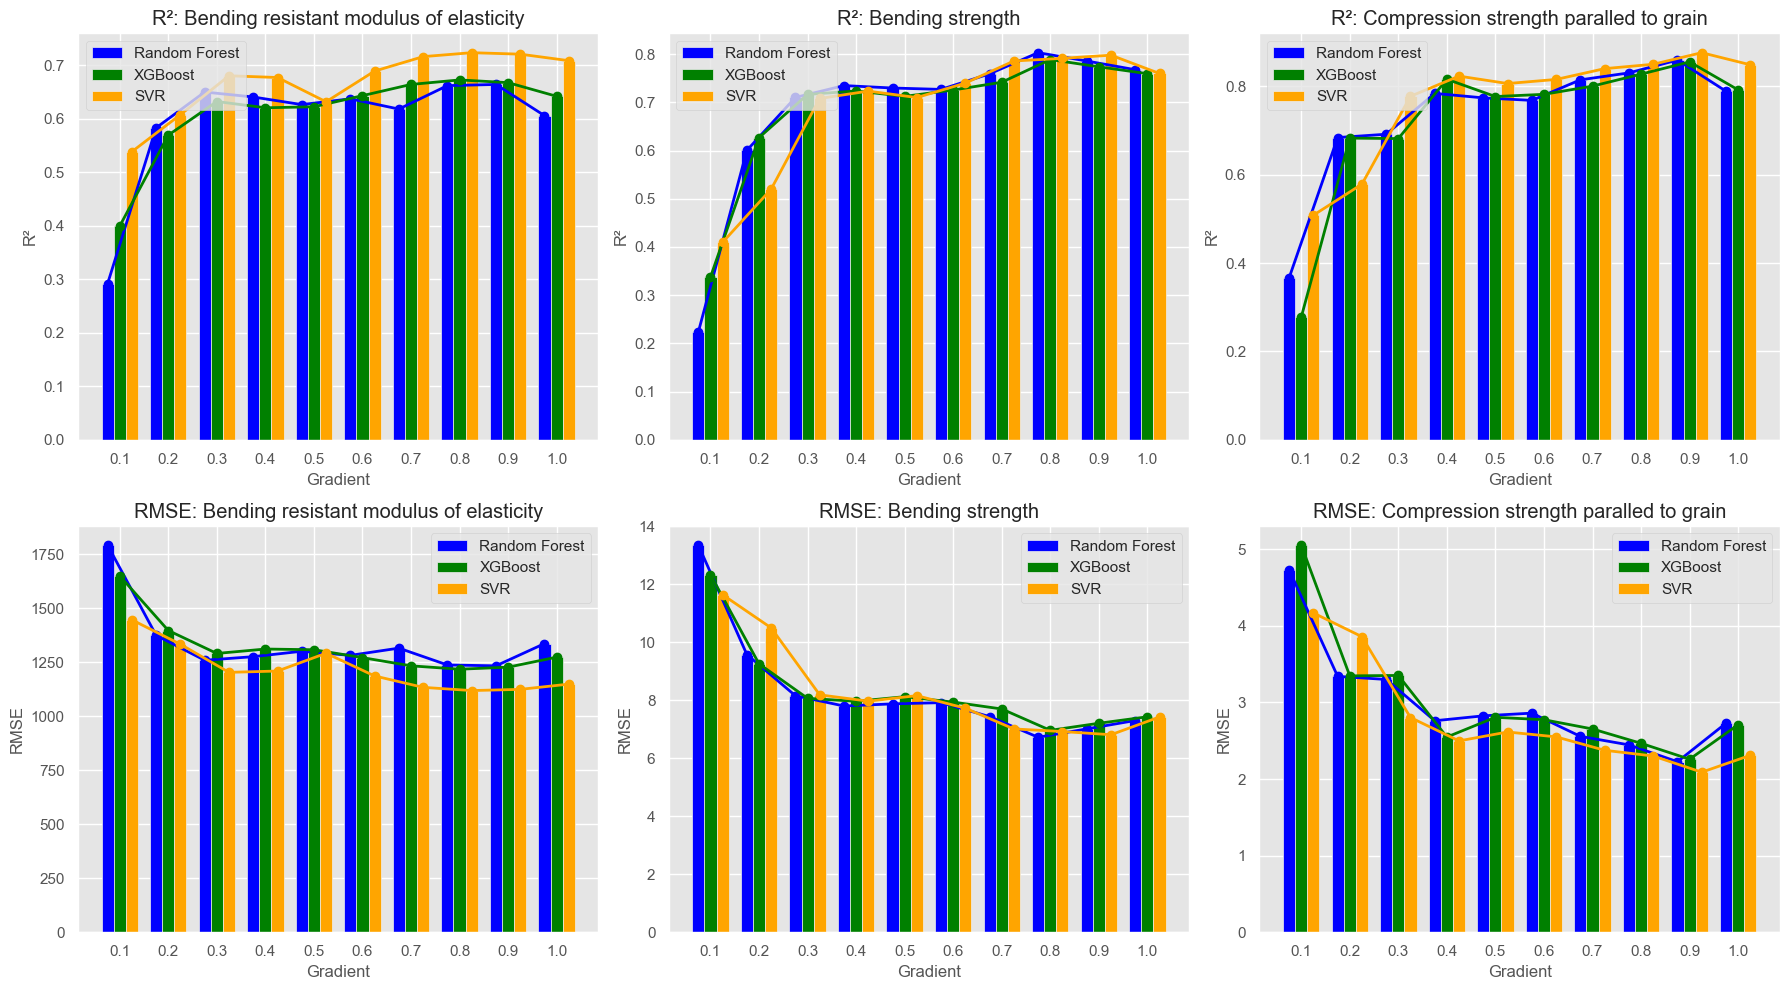
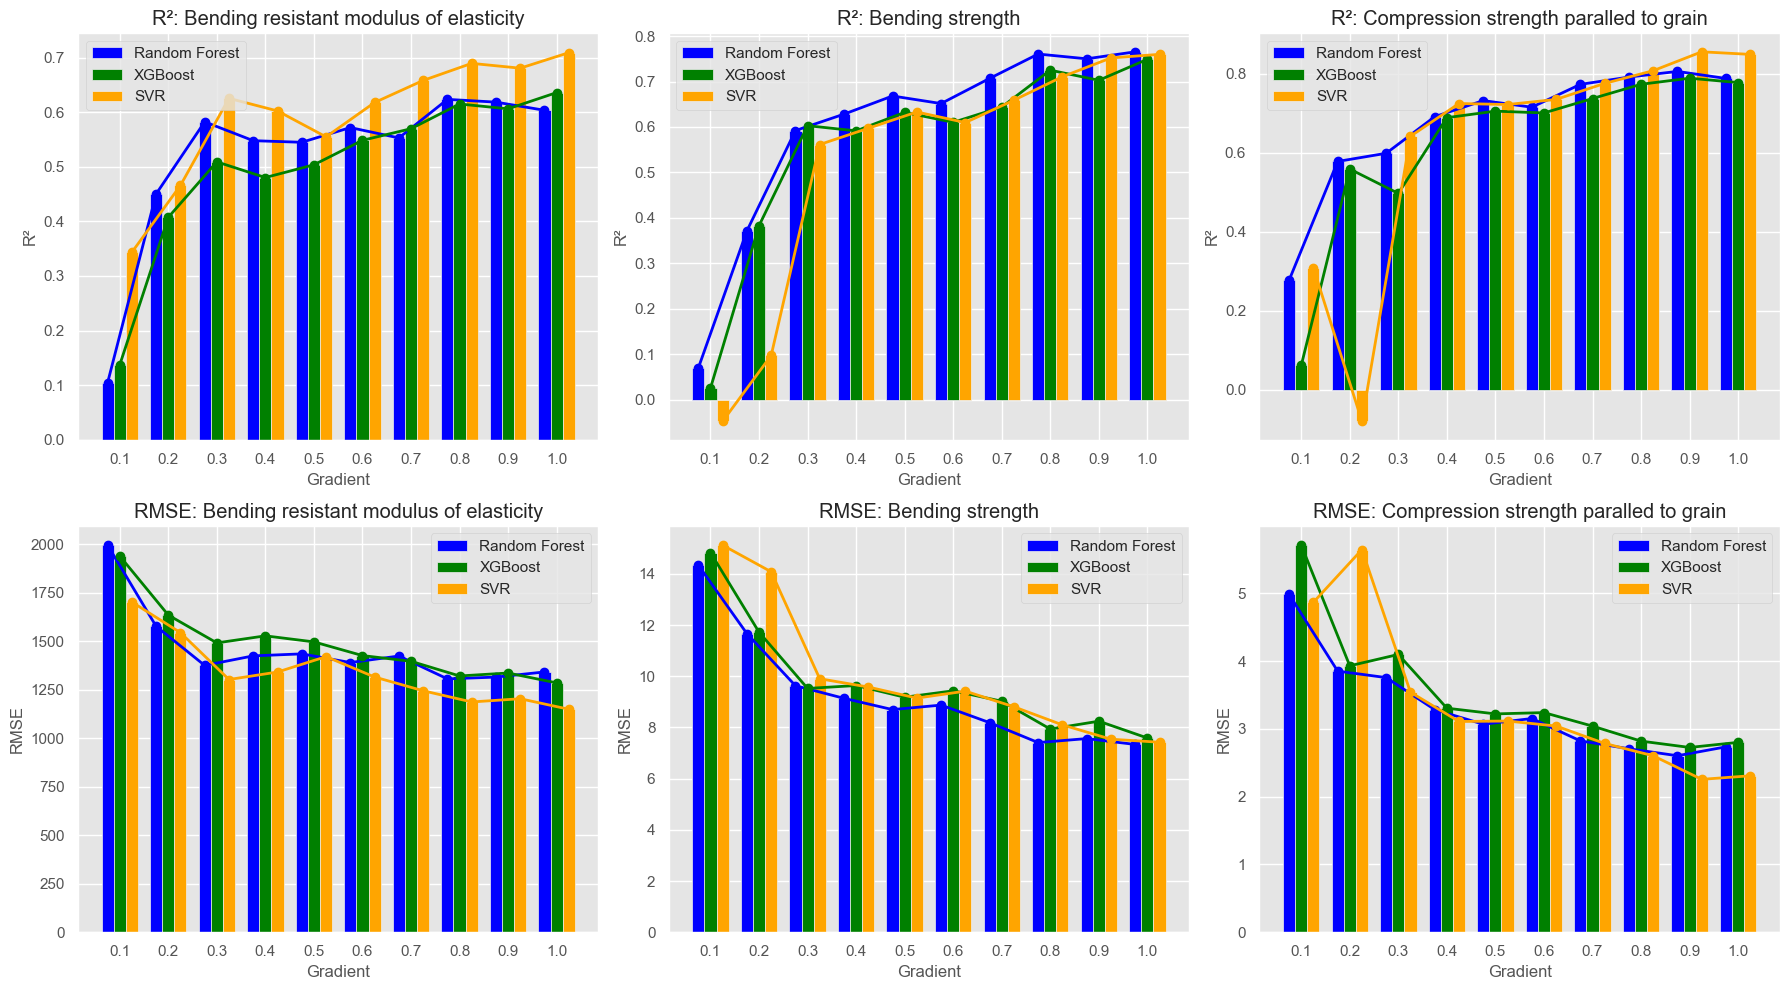
Add files via upload

diff --git a/README.md b/README.md
@@ -2193,15 +2193,24 @@ for gradient in gradients:
         xgb_predictions_all = np.array(xgb_predictions_all).T
         svr_predictions_all = np.array(svr_predictions_all).T
 
-        # 计算 RMSE 和 R²
-        rf_rmse = mean_squared_error(y_test, rf_predictions_all.mean(axis=1), squared=False)
-        xgb_rmse = mean_squared_error(y_test, xgb_predictions_all.mean(axis=1), squared=False)
-        svr_rmse = mean_squared_error(y_test, svr_predictions_all.mean(axis=1), squared=False)
+        # 计算每个模型的 RMSE 和 R²
+        rf_rmse_list = [mean_squared_error(y_test, rf_predictions_all[:, i], squared=False) for i in range(5)]
+        xgb_rmse_list = [mean_squared_error(y_test, xgb_predictions_all[:, i], squared=False) for i in range(5)]
+        svr_rmse_list = [mean_squared_error(y_test, svr_predictions_all[:, i], squared=False) for i in range(5)]
 
-        rf_r2 = r2_score(y_test, rf_predictions_all.mean(axis=1))
-        xgb_r2 = r2_score(y_test, xgb_predictions_all.mean(axis=1))
-        svr_r2 = r2_score(y_test, svr_predictions_all.mean(axis=1))
+        rf_r2_list = [r2_score(y_test, rf_predictions_all[:, i]) for i in range(5)]
+        xgb_r2_list = [r2_score(y_test, xgb_predictions_all[:, i]) for i in range(5)]
+        svr_r2_list = [r2_score(y_test, svr_predictions_all[:, i]) for i in range(5)]
 
+        # 计算平均 RMSE 和 R²
+        rf_rmse = np.mean(rf_rmse_list)
+        xgb_rmse = np.mean(xgb_rmse_list)
+        svr_rmse = np.mean(svr_rmse_list)
+
+        rf_r2 = np.mean(rf_r2_list)
+        xgb_r2 = np.mean(xgb_r2_list)
+        svr_r2 = np.mean(svr_r2_list)
+        
         # 将结果存储到结果列表
         results.append({
             "gradient": gradient,
@@ -2244,7 +2253,9 @@ for gradient in gradients:
         plt.title(f'SVR: Gradient {gradient}, Target {target_column}\nRMSE: {svr_rmse:.2f}, R²: {svr_r2:.2f}', fontsize=10)
         plt.xlabel('Actual')
         plt.ylabel('Predicted')
-        plt.legend()
+        # 在梯度为100时不显示图例
+        if gradient != 1.0:
+            plt.legend()
 
         plot_idx += 3  # 每次递增3，表示3个子图
 
@@ -2363,7 +2374,7 @@ plt.show()
     
 
 
-# 下面代码是备份代码
+# 下面代码是备份代码 !之后代码都无效！
 
 
 ```python
